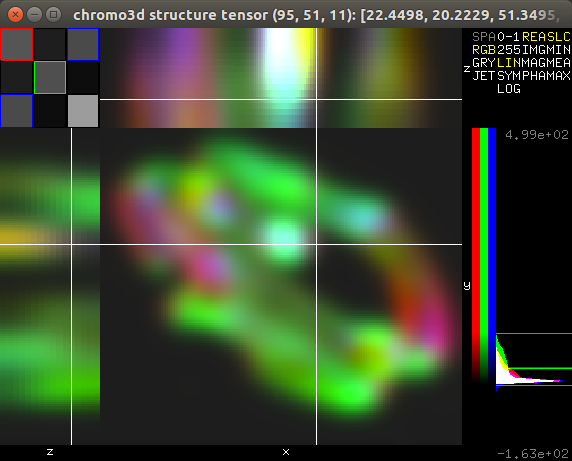
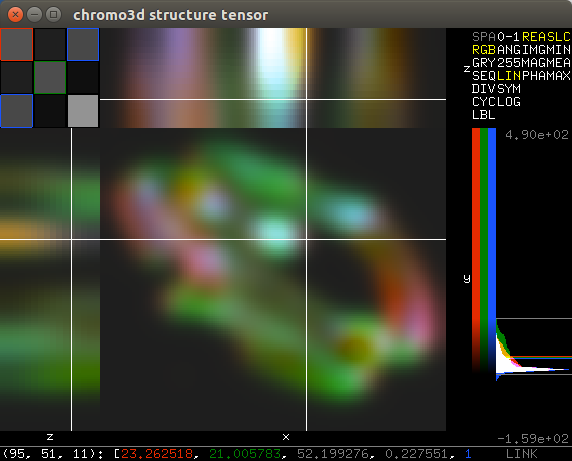
Don't move operating point when dragging projection ROI in slice viewer

diff --git a/viewer/src/slice.cpp b/viewer/src/slice.cpp
@@ -326,15 +326,9 @@ void SliceViewPort::click(int button, int state, int x, int y, int mods)
     
     if (button == 0)
     {
-      // Left mouse button: change operating point
-      if (dx != -1)
-        viewer()->options().operating_point_[(dip::uint)dx] = (dip::uint)std::min(std::max(ix-0.0, 0.), (double)view()->size(0)-1.);
-
-      if (dy != -1)
-        viewer()->options().operating_point_[(dip::uint)dy] = (dip::uint)std::min(std::max(iy-0.0, 0.), (double)view()->size(1)-1.);
-        
       if (mods == KEY_MOD_SHIFT)
       {
+        // Shift-Left mouse button: adjust projection ROI
         dip::UnsignedArray start = viewer()->options().roi_origin_;
         dip::UnsignedArray end = start;
         end += viewer()->options().roi_sizes_;
@@ -369,6 +363,15 @@ void SliceViewPort::click(int button, int state, int x, int y, int mods)
           roi_start_ = (dip::sint)start[(dip::uint)roi_dim_];
           roi_end_   = (dip::sint)end[(dip::uint)roi_dim_];
         }
+      }
+      else
+      {
+        // Left mouse button: change operating point
+        if (dx != -1)
+          viewer()->options().operating_point_[(dip::uint)dx] = (dip::uint)std::min(std::max(ix-0.0, 0.), (double)view()->size(0)-1.);
+
+        if (dy != -1)
+          viewer()->options().operating_point_[(dip::uint)dy] = (dip::uint)std::min(std::max(iy-0.0, 0.), (double)view()->size(1)-1.);
       }
 
       viewer()->options().status_ = "";
@@ -469,16 +472,10 @@ void SliceViewPort::motion(int button, int x, int y)
   
   if (button == 0)
   {
-    // Left mouse button: change operating point
-    if (dx != -1)
-      viewer()->options().operating_point_[(dip::uint)dx] = (dip::uint)std::min(std::max(ix-0.0, 0.), (double)view()->size(0)-1.);
-    if (dy != -1)
-      viewer()->options().operating_point_[(dip::uint)dy] = (dip::uint)std::min(std::max(iy-0.0, 0.), (double)view()->size(1)-1.);
-
-    if (drag_mods_ == KEY_MOD_SHIFT && viewer()->options().projection_ != ViewingOptions::Projection::None)
+    if (drag_mods_ == KEY_MOD_SHIFT)
     {
       // Change ROI
-      if (roi_dim_ != -1)
+      if (roi_dim_ != -1 && viewer()->options().projection_ != ViewingOptions::Projection::None)
       {
         double dix, diy;
         screenToView(drag_x_, drag_y_, &dix, &diy);
@@ -500,9 +497,17 @@ void SliceViewPort::motion(int button, int x, int y)
         viewer()->options().roi_sizes_[(dip::uint)roi_dim_] = (dip::uint)std::abs((dip::sint)start-(dip::sint)end);
        
         std::ostringstream oss;
-        oss << "Projection ROI set to " << viewer()->options().roi_origin_ << "+" << viewer()->options().roi_sizes_ << ". Reset with Ctrl-N.";
+        oss << "Projection ROI set to " << viewer()->options().roi_origin_ << "+" << viewer()->options().roi_sizes_ << ". Reset with Ctrl-R.";
         viewer()->options().status_ = oss.str();
       }
+    }
+    else
+    {
+      // Left mouse button: change operating point
+      if (dx != -1)
+        viewer()->options().operating_point_[(dip::uint)dx] = (dip::uint)std::min(std::max(ix-0.0, 0.), (double)view()->size(0)-1.);
+      if (dy != -1)
+        viewer()->options().operating_point_[(dip::uint)dy] = (dip::uint)std::min(std::max(iy-0.0, 0.), (double)view()->size(1)-1.);
     }
     
     viewer()->refresh();

diff --git a/viewer/src/control.cpp b/viewer/src/control.cpp
@@ -131,6 +131,8 @@ void ControlViewPort::click(int button, int state, int x, int y, int /*mods*/)
       case 3:
         o.projection_ = (ViewingOptions::Projection) opt;
         o.status_ = "Projection set to " + o.getProjectionDescription();
+        if (o.projection_ > ViewingOptions::Projection::None)
+          o.status_ += ". Shift-drag to set ROI.";
         break;
     }
 

diff --git a/src/documentation/viewer.md b/src/documentation/viewer.md
@@ -168,11 +168,11 @@ There are also a few keyboard shortcuts:
 
 - *N* and *P*
 
-  Step through the second image dimension.
+  Step through the third image dimension.
 
 - *F* and *B*
 
-  Step through the third image dimension.
+  Step through the fourth image dimension.
 
 - *Control-1*
 
